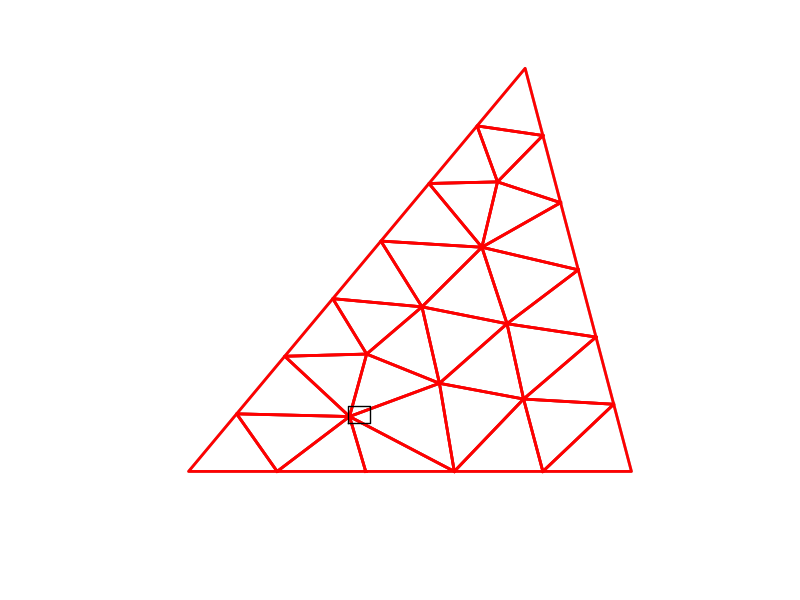
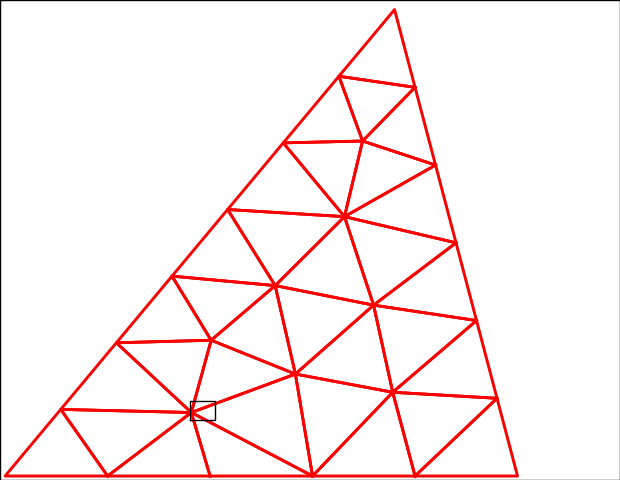
save

diff --git a/clip_figure.py b/clip_figure.py
@@ -1,4 +1,5 @@
 from matplotlib.pyplot import *
+import matplotlib.image as mpimg
 
 point_size = 1
 line_width = 1
@@ -112,41 +113,6 @@ def clip():
     show()
 
 
-def cvt_zoom_total(ls):
-    d = (0.4, 0.4, 0.4)
-    o = (0.8, 0.8, 0.8)
-    for i in range(len(ls) - 1):
-        tokens = ls[i].split()
-        table[tokens[0]](tokens[1:], interpolate_color(o, d, i / (len(ls) - 1)))
-
-    tokens = ls[-1].split()
-    table[tokens[0]](tokens[1:], 'r')
-
-    axis('off')
-    xlim([1.8, 2.05])
-    ylim([0.7, 0.905])
-    savefig('clip_figure/cvt_zoom_total.png')
-    show()
-
-
-def cvt_zoom_compare(ls):
-    index = 0
-    # zoom every iter
-    for i in range(len(ls) - 1):
-        tokens = ls[i].split()
-        table[tokens[0]](tokens[1:], '#aaaaaa')
-
-        tokens = ls[i + 1].split()
-        table[tokens[0]](tokens[1:], 'r')
-
-        axis('off')
-        xlim([1.8, 2.05])
-        ylim([0.7, 0.905])
-        savefig('clip_figure/cvt_zoom_compare' + str(index) + ".png")
-        index += 1
-        show()
-
-
 def cvt():
     global point_size
     point_size = 4
@@ -157,7 +123,7 @@ def cvt():
     before_cvt = []
     after_cvt = []
     ls = before_cvt
-    with open('figure2.txt') as f:
+    with open('figure1.txt') as f:
         for l in f:
             if l.strip() == 'cvt':
                 ls = after_cvt
@@ -171,6 +137,43 @@ def cvt():
     cvt_total(after_cvt)
 
 
+def cvt_zoom_compare(ls):
+    index = 0
+    # zoom every iter
+    for i in range(len(ls) - 1):
+        tokens = ls[i].split()
+        table[tokens[0]](tokens[1:], '#aaaaaa')
+
+        tokens = ls[i + 1].split()
+        table[tokens[0]](tokens[1:], 'r')
+
+        gca().get_xaxis().set_visible(False)
+        gca().get_yaxis().set_visible(False)
+        xlim([1.8, 2.05])
+        ylim([0.7, 0.905])
+        savefig('clip_figure/cvt_zoom_compare' + str(index) + ".png", bbox_inches='tight', pad_inches=0)
+        index += 1
+        show()
+
+
+def cvt_zoom_total(ls):
+    d = (0.4, 0.4, 0.4)
+    o = (0.8, 0.8, 0.8)
+    for i in range(len(ls) - 1):
+        tokens = ls[i].split()
+        table[tokens[0]](tokens[1:], interpolate_color(o, d, i / (len(ls) - 1)))
+
+    tokens = ls[-1].split()
+    table[tokens[0]](tokens[1:], 'r')
+
+    gca().get_xaxis().set_visible(False)
+    gca().get_yaxis().set_visible(False)
+    xlim([1.8, 2.05])
+    ylim([0.7, 0.905])
+    savefig('clip_figure/cvt_zoom_total.png', bbox_inches='tight', pad_inches=0)
+    show()
+
+
 def cvt_compare(ls):
     index = 0
     for i in range(len(ls) - 1):
@@ -181,18 +184,13 @@ def cvt_compare(ls):
         table[tokens[0]](tokens[1:], 'r')
         plot([1.8, 2.05, 2.05, 1.8, 1.8], [0.7, 0.7, 0.95, 0.95, 0.7], '-k')
 
-        axis('off')
-        xlim([-1, 6])
-        ylim([-1, 6])
-        savefig('clip_figure/cvt_compare' + str(index) + ".png")
+        gca().get_xaxis().set_visible(False)
+        gca().get_yaxis().set_visible(False)
+        xlim([-0.05, 6])
+        ylim([-0.05, 6])
+        savefig('clip_figure/cvt_compare' + str(index) + ".png", bbox_inches='tight', pad_inches=0)
         index += 1
         show()
-
-
-def interpolate_color(o, d, p):
-    if 0 > p or p > 1:
-        raise Exception()
-    return tuple((oo + (dd - oo) * p for oo, dd in zip(o, d)))
 
 
 def cvt_total(ls):
@@ -205,11 +203,18 @@ def cvt_total(ls):
     tokens = ls[-1].split()
     table[tokens[0]](tokens[1:], 'r')
     plot([1.8, 2.05, 2.05, 1.8, 1.8], [0.7, 0.7, 0.95, 0.95, 0.7], '-k')
-    axis('off')
-    xlim([-1, 6])
-    ylim([-1, 6])
-    savefig('clip_figure/cvt_total.png')
+    gca().get_xaxis().set_visible(False)
+    gca().get_yaxis().set_visible(False)
+    xlim([-0.05, 6])
+    ylim([-0.05, 6])
+    savefig('clip_figure/cvt_total.png', bbox_inches='tight', pad_inches=0)
     show()
+
+
+def interpolate_color(o, d, p):
+    if 0 > p or p > 1:
+        raise Exception()
+    return tuple((oo + (dd - oo) * p for oo, dd in zip(o, d)))
 
 
 def show_cvt_in_different_stage():
@@ -231,6 +236,58 @@ def show_cvt_in_different_stage():
         show()
 
 
+def cvt_for_paper():
+    zoom = 'clip_figure/cvt_zoom_compare%d.png'
+    unzoom = 'clip_figure/cvt_compare%d.png'
+    index = 0
+    unzoom_image_position = (200, 300)
+    unzoom_image_width = 800
+
+    zoom_image_position = (0, 0)
+    zoom_image_width = 400
+
+    def pw2e(p, w):
+        return (p[0], p[0] + w, p[1], p[1] + w * 0.75)
+
+    for i in range(5):
+        unzoom_img = mpimg.imread(unzoom % index)[5:-3, 5:-3]
+        zoom_img = mpimg.imread(zoom % index)[5:-3, 5:-3]
+        # print(zoom_img)
+        imshow(unzoom_img, extent=pw2e(unzoom_image_position, unzoom_image_width), zorder=-1)
+        imshow(zoom_img, extent=pw2e(zoom_image_position, zoom_image_width), zorder=-1)
+        # axis('off')
+        plot([443, 0], [396, 300], 'k', linewidth=1)
+        plot([476, 400], [374, 0], 'k', linewidth=1)
+        plot([0, 400, 400, 0, 0], [0, 0, 300, 300, 0], 'k', linewidth=1)
+        gca().get_xaxis().set_visible(False)
+        gca().get_yaxis().set_visible(False)
+        xlim([-50, 950])
+        ylim([-50, 950])
+        grid()
+        savefig('clip_figure/cvt_for_paper%d.png' % index)
+        index += 1
+        show()
+
+    unzoom_img = mpimg.imread("clip_figure/cvt_total.png")[5:-3, 5:-3]
+    zoom_img = mpimg.imread("clip_figure/cvt_zoom_total.png")[5:-3, 5:-3]
+    # print(zoom_img)
+    imshow(unzoom_img, extent=pw2e(unzoom_image_position, unzoom_image_width), zorder=-1)
+    imshow(zoom_img, extent=pw2e(zoom_image_position, zoom_image_width), zorder=-1)
+    # axis('off')
+    plot([443, 0], [396, 300], 'k', linewidth=1)
+    plot([476, 400], [374, 0], 'k', linewidth=1)
+    plot([0, 400, 400, 0, 0], [0, 0, 300, 300, 0], 'k', linewidth=1)
+    gca().get_xaxis().set_visible(False)
+    gca().get_yaxis().set_visible(False)
+    xlim([-50, 950])
+    ylim([-50, 950])
+    grid()
+    savefig('clip_figure/cvt_for_paper%d.png' % index)
+    index += 1
+    show()
+
+
 # clip()
 # cvt()
-show_cvt_in_different_stage()
+# show_cvt_in_different_stage()
+cvt_for_paper()
